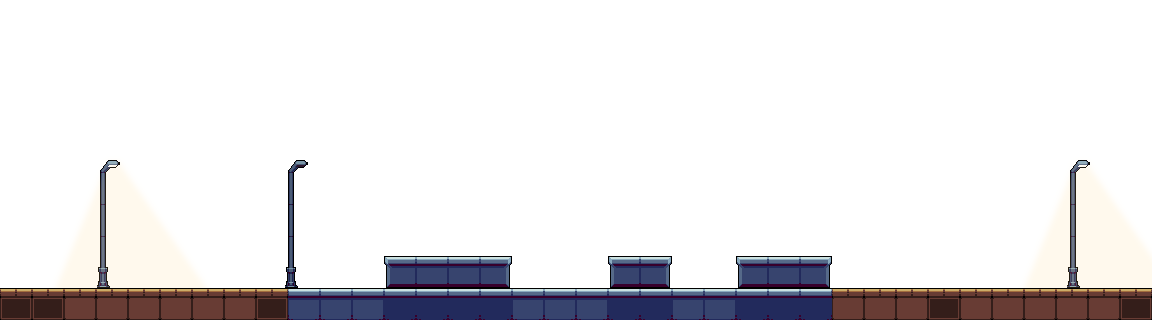
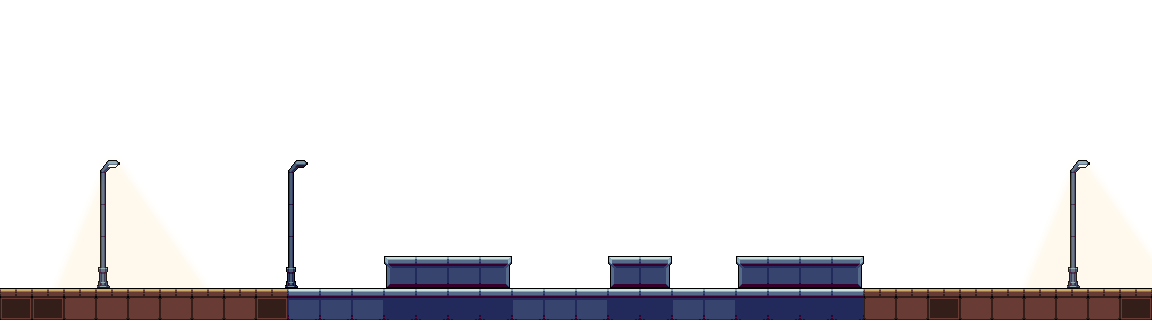
fg adjust

Changed region(s): [[0.7188, 0.7716, 0.75, 0.9877]]

diff --git a/js/fg-vars.js b/js/fg-vars.js
@@ -19,16 +19,19 @@ var fgsImgIndex = {}
 
 	
 var obstacle = [
-	{x:(fg.width*2)+384,y:(32*8),w:(32*4),h:32,initX:(fg.width*2)+384},
-	{x:(fg.width*2)+576,y:(32*7),w:(32*2),h:32,initX:(fg.width*2)+576},
-	{x:(fg.width*2)+736,y:(32*8),w:(32*3),h:32,initX:(fg.width*2)+736},
-	{x:(fg.width*3)+384,y:(32*8),w:(32*4),h:32,initX:(fg.width*3)+384},
-	{x:(fg.width*3)+608,y:(32*8),w:(32*2),h:32,initX:(fg.width*3)+608},
-	{x:(fg.width*3)+736,y:(32*8),w:(32*3),h:32,initX:(fg.width*3)+736},
-	{x:(fg.width*4)+0,y:(32*8)+25,w:32,h:7,initX:(fg.width*4)+0},
-	{x:(fg.width*4)+32,y:(32*8)+18,w:(32)*2,h:14,initX:(fg.width*4)+32},
-	{x:(fg.width*5)+64,y:(32*8),w:(32),h:32,initX:(fg.width*5)+64},
-	{x:(fg.width*5)+128,y:(32*7),w:(32*4),h:16,initX:(fg.width*5)+128},
-	{x:(fg.width*5)+320,y:(32*6),w:(32*2),h:32,initX:(fg.width*5)+320},
-	{x:(fg.width*5)+448,y:(32*5),w:(32*4),h:32,initX:(fg.width*5)+448},
+	{x:(fg.width*2)+384,y:(32*8),w:(32*4),h:32,initX:(fg.width*2)+384}, //fg1 1st block
+	{x:(fg.width*2)+576,y:(32*7),w:(32*2),h:32,initX:(fg.width*2)+576}, //fg1 2nd platform
+	{x:(fg.width*2)+736,y:(32*8),w:(32*3),h:32,initX:(fg.width*2)+736}, //fg1 3rd block
+	
+	{x:(fg.width*3)+384,y:(32*8),w:(32*4),h:32,initX:(fg.width*3)+384}, //fg2 1st block
+	{x:(fg.width*3)+608,y:(32*8),w:(32*2),h:32,initX:(fg.width*3)+608}, //fg2 1nd block
+	{x:(fg.width*3)+736,y:(32*8),w:(32*4),h:32,initX:(fg.width*3)+736}, //fg2 3rd block
+	
+	{x:(fg.width*4)+0,y:(32*8)+25,w:32,h:7,initX:(fg.width*4)+0}, //fg3 - little floor blocks
+	{x:(fg.width*4)+32,y:(32*8)+18,w:(32)*2,h:14,initX:(fg.width*4)+32}, //fg3 - little floor blocks
+	
+	{x:(fg.width*5)+64,y:(32*8),w:(32),h:32,initX:(fg.width*5)+64}, //fg4 - first single block
+	{x:(fg.width*5)+128,y:(32*7),w:(32*4),h:16,initX:(fg.width*5)+128}, //fg4 - 2nd platform
+	{x:(fg.width*5)+320,y:(32*6),w:(32*2),h:32,initX:(fg.width*5)+320}, //fg4 - 3rd platform
+	{x:(fg.width*5)+448,y:(32*5),w:(32*4),h:32,initX:(fg.width*5)+448}, //fg4 - 4th highest platform
 ]
